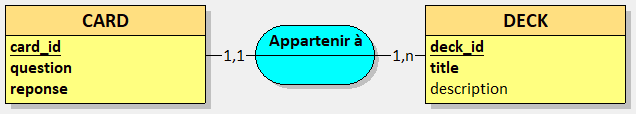
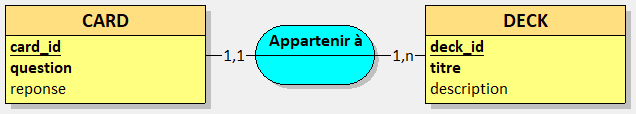
feat(Migration): Créer les fichiers de migration
[4][Done]

Changed region(s): [[0.0, 0.7368, 0.1195, 0.8421], [0.6871, 0.5263, 0.7469, 0.6316]]

diff --git a/src/database/migrations/1770811526912_create_cards_table.ts b/src/database/migrations/1770811526912_create_cards_table.ts
@@ -1,0 +1,22 @@
+import { BaseSchema } from '@adonisjs/lucid/schema'
+
+export default class extends BaseSchema {
+  protected tableName = 'cards'
+
+  async up() {
+    this.schema.createTable(this.tableName, (table) => {
+      table.increments('id')
+
+      table.string('question').notNullable().unique()
+      table.string('reponse').notNullable()
+      table.integer('deck_fk').unsigned().references('id').inTable('decks').onDelete('CASCADE')
+
+      table.timestamp('created_at')
+      table.timestamp('updated_at')
+    })
+  }
+
+  async down() {
+    this.schema.dropTable(this.tableName)
+  }
+}

diff --git a/src/database/migrations/1770811535582_create_decks_table.ts b/src/database/migrations/1770811535582_create_decks_table.ts
@@ -1,0 +1,21 @@
+import { BaseSchema } from '@adonisjs/lucid/schema'
+
+export default class extends BaseSchema {
+  protected tableName = 'decks'
+
+  async up() {
+    this.schema.createTable(this.tableName, (table) => {
+      table.increments('id')
+
+      table.string('titre').notNullable().unique()
+      table.string('description').notNullable()
+
+      table.timestamp('created_at')
+      table.timestamp('updated_at')
+    })
+  }
+
+  async down() {
+    this.schema.dropTable(this.tableName)
+  }
+}
